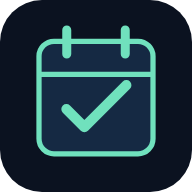
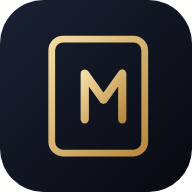
Redesign web app with full BSSE-5D timetable

diff --git a/index.html b/index.html
@@ -1,84 +1,150 @@
 <!DOCTYPE html>
 <html lang="en">
 <head>
-<meta charset="UTF-8"><meta name="viewport" content="width=device-width,initial-scale=1">
-<title>My Weekly Routine</title>
-<meta name="theme-color" content="#0b1220">
-<meta name="description" content="Your personal weekly class, study, workout and shift planner.">
+<meta charset="UTF-8">
+<meta name="viewport" content="width=device-width,initial-scale=1,viewport-fit=cover">
+<title>Major's Diary</title>
+<meta name="description" content="Personal weekly routine — BSSE-5D classes, study, home workouts and shifts.">
+<meta name="theme-color" content="#07090f">
 <link rel="manifest" href="manifest.webmanifest">
 <link rel="icon" href="icon.svg" type="image/svg+xml">
 <link rel="apple-touch-icon" href="icon-192.png">
+<link rel="preconnect" href="https://fonts.googleapis.com"><link rel="preconnect" href="https://fonts.gstatic.com" crossorigin>
+<link href="https://fonts.googleapis.com/css2?family=Fraunces:opsz,wght@9..144,500;9..144,600&family=Inter:wght@400;500;600;700&display=swap" rel="stylesheet">
 <style>
-:root{--bg:#0b1220;--panel:#121d30;--muted:#9eb0c9;--ink:#edf4ff;--accent:#70e1bd;--line:#263650}
-*{box-sizing:border-box}body{margin:0;background:linear-gradient(145deg,#09111e,#15243a);font:15px system-ui;color:var(--ink);min-height:100vh;display:grid;place-items:center;padding:18px}
-.widget{width:min(100%,430px);border:1px solid #2b3c56;border-radius:24px;background:#0f1929;box-shadow:0 20px 70px #0008;overflow:hidden}
-.head{padding:18px 18px 14px;display:flex;align-items:center;justify-content:space-between;gap:12px;cursor:pointer;background:linear-gradient(120deg,#162943,#102034)}
-.brand{font-size:12px;color:var(--muted);letter-spacing:.1em;text-transform:uppercase}.date{font-size:12px;color:var(--muted)}h1{font-size:21px;margin:4px 0 0}.toggle{border:1px solid #39536e;color:var(--ink);background:#20324b;border-radius:12px;padding:9px 12px;font-size:18px}
-.summary{padding:15px 18px;display:grid;grid-template-columns:1fr 1fr 1fr;gap:8px}.metric{background:#152238;border:1px solid #233650;padding:10px;border-radius:14px}.metric b{display:block;font-size:17px}.metric span{font-size:11px;color:var(--muted)}
-.days{display:grid;grid-template-columns:repeat(7,1fr);gap:5px;padding:0 14px 14px}.day{border:1px solid #2b3c54;background:#142136;color:#b9c7d9;border-radius:10px;padding:10px 0;font-weight:700}.day.active{background:var(--accent);border-color:var(--accent);color:#082018}
-.detail{padding:0 18px 18px}.daytitle{display:flex;justify-content:space-between;align-items:center;margin-bottom:12px}.daytitle h2{font-size:18px;margin:0}.pill{font-size:11px;color:#06251c;background:var(--accent);padding:5px 9px;border-radius:99px;font-weight:800}
-.event{display:grid;grid-template-columns:76px 1fr;gap:10px;padding:11px 0;border-bottom:1px solid var(--line)}.time{font-size:12px;color:var(--accent);font-weight:700;padding-top:2px}.event b{font-size:14px}.event small{display:block;color:var(--muted);margin-top:3px;line-height:1.35}
-.collapsed .detail,.collapsed .days,.collapsed .summary{display:none}.collapsed{width:min(100%,310px)}.collapsed .head{padding:14px}.collapsed h1{font-size:17px}.collapsed .brand{font-size:10px}.collapsed .toggle{font-size:15px}
-.footer{padding:0 18px 18px;color:var(--muted);font-size:11px;line-height:1.5}.note{border:1px solid #6d5431;background:#2a2319;color:#f2d6a6;padding:10px 12px;border-radius:12px;margin-top:12px;font-size:12px}
-.event{grid-template-columns:28px 76px 1fr;cursor:pointer}.chk{width:22px;height:22px;border:2px solid #39536e;border-radius:7px;display:grid;place-items:center;font-size:13px;color:#082018;margin-top:1px}.event.done .chk{background:var(--accent);border-color:var(--accent)}.event.done b{text-decoration:line-through;opacity:.6}
-.prog{height:6px;background:#1b2a41;border-radius:9px;overflow:hidden;margin-top:8px;width:160px}.prog i{display:block;height:100%;background:var(--accent);width:0;transition:width .3s}.collapsed .prog{width:120px}
-@media(min-width:600px){body{padding:28px}}
+:root{--bg:#07090f;--s1:rgba(255,255,255,.035);--s2:rgba(255,255,255,.06);--line:rgba(255,255,255,.08);--ink:#f4f1ea;--mut:#8d93a5;--gold:#e2c27d;--gold2:#b8893e;--ok:#7ee0b4}
+*{box-sizing:border-box;-webkit-tap-highlight-color:transparent}
+html,body{margin:0;background:var(--bg);color:var(--ink);font:15px/1.45 Inter,system-ui,sans-serif}
+body{min-height:100vh;background:radial-gradient(900px 500px at 85% -10%,rgba(226,194,125,.13),transparent 60%),radial-gradient(700px 500px at -10% 30%,rgba(90,110,180,.12),transparent 60%),var(--bg)}
+.wrap{max-width:460px;margin:0 auto;padding:calc(22px + env(safe-area-inset-top)) 16px 40px}
+header{display:flex;justify-content:space-between;align-items:center;gap:16px}
+.eyebrow{font-size:11px;letter-spacing:.22em;text-transform:uppercase;color:var(--gold);font-weight:600}
+h1{font-family:Fraunces,Georgia,serif;font-weight:600;font-size:34px;line-height:1.05;margin:6px 0 4px;letter-spacing:-.01em}
+.date{color:var(--mut);font-size:13px}
+.ring{position:relative;width:86px;height:86px;flex:none}
+.ring svg{transform:rotate(-90deg)}.ring .v{position:absolute;inset:0;display:grid;place-items:center;text-align:center}
+.ring b{font-size:20px;display:block;line-height:1}.ring span{font-size:10px;color:var(--mut);letter-spacing:.08em}
+.ring circle{transition:stroke-dashoffset .6s cubic-bezier(.2,.8,.2,1)}
+.days{display:grid;grid-template-columns:repeat(7,1fr);gap:6px;margin:24px 0 18px}
+.day{appearance:none;border:1px solid var(--line);background:var(--s1);color:var(--mut);border-radius:14px;padding:10px 0 8px;font:600 12px Inter,sans-serif;cursor:pointer;position:relative;transition:.2s}
+.day small{display:block;font-size:15px;color:var(--ink);font-weight:600;margin-top:2px}
+.day.active{background:linear-gradient(160deg,var(--gold),var(--gold2));border-color:transparent;color:#2a1d05}.day.active small{color:#1a1204}
+.day.today:not(.active)::after{content:"";position:absolute;bottom:5px;left:50%;width:4px;height:4px;margin-left:-2px;border-radius:9px;background:var(--gold)}
+.stats{display:grid;grid-template-columns:repeat(4,1fr);gap:8px;margin-bottom:18px}
+.stat{background:var(--s1);border:1px solid var(--line);border-radius:16px;padding:12px 10px}
+.stat b{display:block;font-size:14px;font-weight:600;white-space:nowrap;overflow:hidden;text-overflow:ellipsis}.stat span{font-size:10.5px;color:var(--mut);letter-spacing:.04em}
+.sec{display:flex;justify-content:space-between;align-items:baseline;margin:6px 2px 10px}
+.sec h2{font-family:Fraunces,Georgia,serif;font-weight:500;font-size:20px;margin:0}
+.tag{font-size:10.5px;letter-spacing:.12em;text-transform:uppercase;font-weight:600;padding:5px 10px;border-radius:99px;border:1px solid rgba(226,194,125,.35);color:var(--gold)}
+.tag.off{border-color:rgba(126,224,180,.35);color:var(--ok)}
+.list{display:flex;flex-direction:column;gap:8px}
+.item{display:grid;grid-template-columns:30px 1fr;gap:12px;align-items:center;padding:14px;border-radius:18px;background:var(--s1);border:1px solid var(--line);cursor:pointer;transition:background .2s,transform .1s;user-select:none}
+.item:active{transform:scale(.985)}.item:hover{background:var(--s2)}
+.chk{width:26px;height:26px;border-radius:50%;border:1.5px solid #4a5168;display:grid;place-items:center;transition:.2s}
+.chk svg{opacity:0;transform:scale(.5);transition:.2s}
+.item.done .chk{background:linear-gradient(160deg,var(--gold),var(--gold2));border-color:transparent}.item.done .chk svg{opacity:1;transform:none}
+.t{font-size:11.5px;color:var(--gold);font-weight:600;letter-spacing:.03em}
+.n{font-weight:600;font-size:14.5px;margin-top:1px}.d{font-size:12.5px;color:var(--mut);margin-top:2px}
+.item.done .n{color:var(--mut);text-decoration:line-through;text-decoration-color:rgba(226,194,125,.6)}
+.note{margin-top:16px;padding:14px 16px;border-radius:18px;background:linear-gradient(160deg,rgba(226,194,125,.10),rgba(226,194,125,.03));border:1px solid rgba(226,194,125,.2);font-size:13px;color:#e9dcc0}
+.note b{display:block;font-size:10.5px;letter-spacing:.18em;text-transform:uppercase;color:var(--gold);margin-bottom:4px}
+
+.k-study .t{color:#9fbcff}.k-workout .t{color:#7ee0b4}.k-shift .t{color:#f2a3a3}.k-sleep .t{color:#b4a7f0}.k-life .t{color:var(--mut)}
+.k-life{background:transparent;border-style:dashed}.k-workout .d{color:#b9c6c0}
+.item.now{border-color:rgba(226,194,125,.55);box-shadow:0 0 0 3px rgba(226,194,125,.08),0 10px 30px rgba(0,0,0,.35)}
+.t em{font-style:normal;margin-left:8px;padding:2px 7px;border-radius:99px;background:var(--gold);color:#1a1204;font-size:9.5px;letter-spacing:.12em;text-transform:uppercase}
+.legend{display:flex;flex-wrap:wrap;gap:12px;justify-content:center;margin-top:18px;font-size:11px;color:var(--mut)}.legend i{display:inline-block;width:7px;height:7px;border-radius:9px;margin-right:5px;vertical-align:1px}
+footer{text-align:center;color:#5d6377;font-size:11.5px;margin-top:26px}
 </style>
 </head>
 <body>
-<main class="widget" id="widget">
- <header class="head" id="expand" role="button" tabindex="0" aria-label="Expand or collapse weekly routine">
-  <div><div class="brand">My weekly routine</div><h1 id="headline">Today's plan</h1><div class="date" id="date"></div><div class="prog"><i id="bar"></i></div><div class="date" id="progtxt"></div></div>
-  <button class="toggle" id="toggle" aria-label="Expand widget">↗</button>
- </header>
- <section class="summary">
-  <div class="metric"><b id="classes">—</b><span>Class blocks</span></div>
-  <div class="metric"><b id="workout">—</b><span>Workout</span></div>
-  <div class="metric"><b id="study">—</b><span>Study target</span></div>
- </section>
- <nav class="days" id="days" aria-label="Choose day"></nav>
- <section class="detail"><div class="daytitle"><h2 id="dayTitle"></h2><span class="pill" id="shiftPill"></span></div><div id="events"></div>
- <div class="note" id="note"></div></section>
- <div class="footer">Tap any item to tick it ✓ — progress saves on this phone and resets each day. Select a day to see its plan. The compact header opens/closes this widget. Day defaults to your device's current weekday.</div>
+<main class="wrap">
+  <header>
+    <div>
+      <div class="eyebrow">Major's Diary</div>
+      <h1 id="title">Today</h1>
+      <div class="date" id="date"></div>
+    </div>
+    <div class="ring" aria-label="Progress">
+      <svg width="86" height="86" viewBox="0 0 86 86"><defs><linearGradient id="gg" x1="0" y1="0" x2="1" y2="1"><stop offset="0" stop-color="#f3dca2"/><stop offset="1" stop-color="#b8893e"/></linearGradient></defs>
+        <circle cx="43" cy="43" r="37" fill="none" stroke="rgba(255,255,255,.07)" stroke-width="7"/>
+        <circle id="arc" cx="43" cy="43" r="37" fill="none" stroke="url(#gg)" stroke-width="7" stroke-linecap="round" stroke-dasharray="232.5" stroke-dashoffset="232.5"/></svg>
+      <div class="v"><div><b id="pct">0%</b><span id="cnt">0/0</span></div></div>
+    </div>
+  </header>
+
+  <nav class="days" id="days" aria-label="Choose day"></nav>
+
+  <section class="stats">
+    <div class="stat"><b id="sClasses">–</b><span>Classes</span></div>
+    <div class="stat"><b id="sStudy">–</b><span>Study</span></div>
+    <div class="stat"><b id="sWork">–</b><span>Workout</span></div>
+    <div class="stat"><b id="sShift">–</b><span>Shift</span></div>
+  </section>
+
+  <div class="sec"><h2 id="dayName"></h2><span class="tag" id="tag"></span></div>
+  <div class="list" id="list"></div>
+  
+  <div class="legend"><span><i style="background:#e2c27d"></i>Class</span><span><i style="background:#9fbcff"></i>Study</span><span><i style="background:#7ee0b4"></i>Workout</span><span><i style="background:#f2a3a3"></i>Shift</span><span><i style="background:#b4a7f0"></i>Sleep</span></div>
+  <footer>Tap an item to mark it done · progress is saved on this device</footer>
 </main>
+
 <script>
-const week=[
-{name:"Monday",classes:[["8:30–9:30","Web Engineering","A83-131 · Muniba Bibi"],["9:30–10:30","Data Structure & Algorithm","A83-010 · Fawad Ali Shah"],["11:30–1:30","Operating System Lab","LAB A83-133 · 2 hours"],["1:30–2:30","Computer Organization & Assembly","A82 Hall-217A"],["2:30–3:30","Design & Analysis of Algorithm","A83-223"]],workout:"40 min",study:"1 hour",notes:"Use the 10:30–11:30 gap for DSA recap. Travel + meal buffer before shift."},
-{name:"Tuesday",classes:[["8:30–12:00","Data Structure & Algorithm Lab","LAB A83-016 · Fawad Ali Shah"],["1:30–2:30","Computer Organization & Assembly","A83-130"],["2:30–3:30","Agile Software Development Methods","A83-223"]],workout:"Rest",study:"Light / recovery",notes:"Protect recovery after Monday's night shift. Avoid workout if sleep-deprived; take a pre-shift nap if feasible."},
-{name:"Wednesday",classes:[["9:30–10:30","Operating System","A82 Hall-217A"],["10:30–11:30","Data Structure & Algorithm","A83-010"],["1:30–2:30","Design & Analysis of Algorithm","A83-131"],["2:30–4:30","Computer Organization & Assembly Lab","Hitech Lab-01 · 2 hours"]],workout:"Rest",study:"1 hour (if rested)",notes:"Prioritize a recovery nap/sleep window and keep study focused, not lengthy."},
-{name:"Thursday",classes:[["11:30–12:30","Operating System","A83-130"],["12:30–2:30","Web Engineering Lab","LAB A83-005 · 2 hours"],["2:30–3:30","Agile Software Development Methods","A83-132"],["3:30–4:30","Design & Analysis of Algorithm","A83-132"]],workout:"40 min",study:"1 hour",notes:"Workout only if sleep and energy are adequate. Prepare shift bag/meal before commute."},
-{name:"Friday",classes:[["11:30–12:30","Web Engineering","A83-223"],["12:30–1:30","Data Structure & Algorithm","A83-007"],["2:30–4:30","Agile Software Development Methods Lab","LAB A83-004 · 2 hours"]],workout:"Optional walk",study:"1 hour",notes:"Use morning for recovery and one focused review block; keep commute buffer."},
-{name:"Saturday",classes:[],workout:"60 min",study:"3 hours",notes:"Deep-work day: 3 × 50-minute study blocks with breaks. Workout and errands; shift 5:45 PM–2 AM."},
-{name:"Sunday",classes:[],workout:"60 min",study:"3 hours",notes:"Weekly review, assignments + DSA practice. Plan meals, clothes and the coming week. No shift assumed."}
-];
-const dayNames=["Mon","Tue","Wed","Thu","Fri","Sat","Sun"];
-let selected=(new Date().getDay()+6)%7;
-const nav=document.getElementById("days");
-week.forEach((d,i)=>{const b=document.createElement("button");b.className="day";b.textContent=dayNames[i];b.onclick=()=>render(i);b.id="day"+i;nav.appendChild(b)});
-function render(i){selected=i;const d=week[i];document.querySelectorAll(".day").forEach((b,j)=>b.classList.toggle("active",i===j));
-document.getElementById("headline").textContent=d.name+" plan";document.getElementById("date").textContent=new Intl.DateTimeFormat(undefined,{weekday:"long",month:"short",day:"numeric"}).format(new Date());
-document.getElementById("dayTitle").textContent=d.name;document.getElementById("classes").textContent=d.classes.length;document.getElementById("workout").textContent=d.workout;document.getElementById("study").textContent=d.study;
-document.getElementById("shiftPill").textContent=i===6?"NO SHIFT PLANNED":"SHIFT · 5:45 PM–2 AM";
-let items=d.classes.map(e=>`<div class="event"><div class="chk"></div><div class="time">${e[0]}</div><div><b>${e[1]}</b><small>${e[2]}</small></div></div>`);
-items.push(`<div class="event"><div class="chk"></div><div class="time">Daily</div><div><b>Work shift</b><small>${i===6?"Off (confirm if different)":"5:45 PM – 2:00 AM · Mon–Sat"}</small></div></div>`);
-items.push(`<div class="event"><div class="chk"></div><div class="time">Target</div><div><b>Study · ${d.study}</b><small>Short focused blocks beat an unrealistic marathon.</small></div></div>`);
-items.push(`<div class="event"><div class="chk"></div><div class="time">Health</div><div><b>Workout · ${d.workout}</b><small>Sleep and safe recovery come first.</small></div></div>`);
-document.getElementById("events").innerHTML=items.join("");document.getElementById("note").textContent=d.notes;bindChecks()}
-function key(){const t=new Date();const off=(selected-((t.getDay()+6)%7));t.setDate(t.getDate()+off);return "done-"+t.toISOString().slice(0,10)}
-function load(k){try{return JSON.parse(localStorage.getItem(k)||"[]")}catch(e){return[]}}
-function save(k,v){try{localStorage.setItem(k,JSON.stringify(v))}catch(e){}}
-function bindChecks(){const k=key(),done=load(k);document.querySelectorAll("#events .event").forEach((el,n)=>{el.classList.toggle("done",done.includes(n));el.querySelector(".chk").textContent=done.includes(n)?"✓":"";el.onclick=()=>{const d=load(k);const j=d.indexOf(n);j<0?d.push(n):d.splice(j,1);save(k,d);bindChecks()}});progress()}
-function progress(){const t=(new Date().getDay()+6)%7,tk="done-"+new Date().toISOString().slice(0,10);const total=week[t].classes.length+3,n=load(tk).length;document.getElementById("bar").style.width=Math.round(n/total*100)+"%";document.getElementById("progtxt").textContent=`Today: ${n}/${total} done`}
-const widget=document.getElementById("widget");function toggle(){widget.classList.toggle("collapsed");document.getElementById("toggle").textContent=widget.classList.contains("collapsed")?"↗":"↙"}
-document.getElementById("expand").addEventListener("click",e=>{if(e.target.closest("button"))return;toggle()});document.getElementById("expand").addEventListener("keydown",e=>{if(e.key==="Enter"||e.key===" "){e.preventDefault();toggle()}});
-document.getElementById("toggle").onclick=toggle;
-render(selected);
-// Start compact like a mini-widget.
-widget.classList.add("collapsed");document.getElementById("toggle").textContent="↗";
-</script>
-<script>
-if ('serviceWorker' in navigator) {
-  window.addEventListener('load', () => navigator.serviceWorker.register('./sw.js').catch(()=>{}));
+const week = [{"name":"Monday","shift":false,"study":"1 hour","workout":"40 min","classes":5,"items":[{"t":"8:00 AM – 8:20 AM","s":480,"n":"Wake up & get ready","d":"Uni is next door — no rush","k":"life"},{"t":"8:30 AM – 9:30 AM","s":510,"n":"Web Engineering","d":"Muniba Bibi · A83-131","k":"class"},{"t":"9:30 AM – 10:30 AM","s":570,"n":"Data Structure & Algorithm","d":"Fawad Ali Shah · A83-010","k":"class"},{"t":"10:30 AM – 11:30 AM","s":630,"n":"Breakfast + DSA recap","d":"Free slot — eat, then 30 min recap","k":"life"},{"t":"11:30 AM – 1:30 PM","s":690,"n":"Operating System Lab","d":"Malik Ihtashim Asif · LAB A83-133","k":"class"},{"t":"1:30 PM – 2:30 PM","s":810,"n":"Computer Org. & Assembly","d":"Mehwish Malik · A82 Hall-217A","k":"class"},{"t":"2:30 PM – 3:30 PM","s":870,"n":"Design & Analysis of Algorithm","d":"Shahid Akbar · A83-223","k":"class"},{"t":"3:30 PM – 4:30 PM","s":930,"n":"Lunch + rest","d":"Recharge after a long class day","k":"life"},{"t":"5:00 PM – 6:00 PM","s":1020,"n":"Study · 1 hour","d":"Review today's lectures","k":"study"},{"t":"6:30 PM – 7:10 PM","s":1110,"n":"Workout · Upper body (home)","d":"Push-ups 4×12 · Pike push-ups 3×10 · Chair dips 3×12 · Plank 3×45s","k":"workout"},{"t":"8:00 PM – 8:30 PM","s":1200,"n":"Dinner","d":"","k":"life"},{"t":"9:00 PM – 10:00 PM","s":1260,"n":"Free time + prep for Tuesday","d":"Bag, notes, lab manual","k":"life"},{"t":"11:00 PM","s":1380,"n":"Sleep","d":"No shift tonight — full night's rest","k":"sleep"}]},{"name":"Tuesday","shift":true,"study":"1 hour","workout":"15 min","classes":3,"items":[{"t":"7:50 AM – 8:20 AM","s":470,"n":"Wake up & get ready","d":"","k":"life"},{"t":"8:30 AM – 11:30 AM","s":510,"n":"Data Structure & Algorithm Lab","d":"Fawad Ali Shah · LAB A83-016","k":"class"},{"t":"11:30 AM – 12:15 PM","s":690,"n":"Brunch","d":"","k":"life"},{"t":"12:15 PM – 1:15 PM","s":735,"n":"Study · 1 hour","d":"DSA lab follow-up","k":"study"},{"t":"1:30 PM – 2:30 PM","s":810,"n":"Computer Org. & Assembly","d":"Mehwish Malik · A83-130","k":"class"},{"t":"2:30 PM – 3:30 PM","s":870,"n":"Agile Software Development","d":"Sonia Rafaqat · A83-223","k":"class"},{"t":"3:45 PM – 5:00 PM","s":945,"n":"Nap","d":"Sleep bank before the night shift","k":"sleep"},{"t":"5:00 PM – 5:15 PM","s":1020,"n":"Mobility · 15 min","d":"Neck, shoulder & hip mobility · hamstring + back stretch","k":"workout"},{"t":"5:15 PM – 5:40 PM","s":1035,"n":"Meal","d":"Eat before the shift starts","k":"life"},{"t":"5:45 PM – 2:00 AM","s":1065,"n":"Work shift (from home)","d":"Work from home","k":"shift"},{"t":"2:15 AM","s":1575,"n":"Sleep","d":"","k":"sleep"}]},{"name":"Wednesday","shift":true,"study":"1 hour","workout":"Rest","classes":4,"items":[{"t":"9:00 AM – 9:25 AM","s":540,"n":"Wake up & breakfast","d":"","k":"life"},{"t":"9:30 AM – 10:30 AM","s":570,"n":"Operating System","d":"Malik Ihtashim Asif · A82 Hall-217A","k":"class"},{"t":"10:30 AM – 11:30 AM","s":630,"n":"Data Structure & Algorithm","d":"Fawad Ali Shah · A83-010","k":"class"},{"t":"11:30 AM – 12:15 PM","s":690,"n":"Lunch","d":"","k":"life"},{"t":"12:15 PM – 1:15 PM","s":735,"n":"Study · 1 hour","d":"Short and focused — recovery day","k":"study"},{"t":"1:30 PM – 2:30 PM","s":810,"n":"Design & Analysis of Algorithm","d":"Shahid Akbar · A83-131","k":"class"},{"t":"2:30 PM – 4:30 PM","s":870,"n":"Computer Org. & Assembly Lab","d":"Mehwish Malik · Hitech Lab-01","k":"class"},{"t":"4:35 PM – 5:20 PM","s":995,"n":"Power nap","d":"Rest day — no workout","k":"sleep"},{"t":"5:20 PM – 5:40 PM","s":1040,"n":"Meal","d":"","k":"life"},{"t":"5:45 PM – 2:00 AM","s":1065,"n":"Work shift (from home)","d":"Work from home","k":"shift"},{"t":"2:15 AM","s":1575,"n":"Sleep","d":"","k":"sleep"}]},{"name":"Thursday","shift":true,"study":"30 min","workout":"40 min","classes":4,"items":[{"t":"9:30 AM – 9:50 AM","s":570,"n":"Wake up & breakfast","d":"","k":"life"},{"t":"9:50 AM – 10:20 AM","s":590,"n":"Study · 30 min","d":"Quick review before class","k":"study"},{"t":"10:30 AM – 11:30 AM","s":630,"n":"Operating System","d":"Malik Ihtashim Asif · A83-130","k":"class"},{"t":"11:30 AM – 1:30 PM","s":690,"n":"Web Engineering Lab","d":"Muniba Bibi · LAB A83-005","k":"class"},{"t":"1:30 PM – 2:30 PM","s":810,"n":"Agile Software Development","d":"Sonia Rafaqat · A83-132","k":"class"},{"t":"2:30 PM – 3:30 PM","s":870,"n":"Design & Analysis of Algorithm","d":"Shahid Akbar · A83-132","k":"class"},{"t":"3:30 PM – 4:00 PM","s":930,"n":"Lunch","d":"","k":"life"},{"t":"4:15 PM – 4:55 PM","s":975,"n":"Workout · Lower body (home)","d":"Squats 4×20 · Lunges 3×12/leg · Glute bridges 3×15 · Wall sit 3×45s","k":"workout"},{"t":"5:00 PM – 5:40 PM","s":1020,"n":"Shower + meal","d":"","k":"life"},{"t":"5:45 PM – 2:00 AM","s":1065,"n":"Work shift (from home)","d":"Work from home","k":"shift"},{"t":"2:15 AM","s":1575,"n":"Sleep","d":"","k":"sleep"}]},{"name":"Friday","shift":true,"study":"1 hour","workout":"20 min","classes":3,"items":[{"t":"9:45 AM – 10:20 AM","s":585,"n":"Wake up & breakfast","d":"","k":"life"},{"t":"10:30 AM – 11:30 AM","s":630,"n":"Web Engineering","d":"Muniba Bibi · A83-223","k":"class"},{"t":"11:30 AM – 12:30 PM","s":690,"n":"Data Structure & Algorithm","d":"Fawad Ali Shah · A83-007","k":"class"},{"t":"12:30 PM – 1:30 PM","s":750,"n":"Lunch + break","d":"","k":"life"},{"t":"1:30 PM – 3:30 PM","s":810,"n":"Agile Software Development Lab","d":"Sonia Rafaqat · LAB A83-004","k":"class"},{"t":"3:30 PM – 4:30 PM","s":930,"n":"Study · 1 hour","d":"Week's notes + pending assignments","k":"study"},{"t":"4:35 PM – 4:55 PM","s":995,"n":"Workout · Core (home)","d":"Crunches 3×20 · Leg raises 3×12 · Mountain climbers 3×30s · Side plank 2×30s","k":"workout"},{"t":"5:00 PM – 5:40 PM","s":1020,"n":"Rest + meal","d":"","k":"life"},{"t":"5:45 PM – 2:00 AM","s":1065,"n":"Work shift (from home)","d":"Work from home","k":"shift"},{"t":"2:15 AM","s":1575,"n":"Sleep","d":"","k":"sleep"}]},{"name":"Saturday","shift":true,"study":"3 hours","workout":"45 min","classes":0,"items":[{"t":"10:00 AM – 10:30 AM","s":600,"n":"Wake up & breakfast","d":"","k":"life"},{"t":"11:00 AM – 1:50 PM","s":660,"n":"Deep study · 3 hours","d":"3 × 50 min blocks with 10 min breaks","k":"study"},{"t":"2:00 PM – 3:00 PM","s":840,"n":"Lunch","d":"","k":"life"},{"t":"3:00 PM – 4:00 PM","s":900,"n":"Errands / free time","d":"","k":"life"},{"t":"4:00 PM – 4:45 PM","s":960,"n":"Workout · Full body (home)","d":"4 rounds: 10 burpees · 15 push-ups · 20 squats · 30 jumping jacks · 40s plank","k":"workout"},{"t":"5:00 PM – 5:40 PM","s":1020,"n":"Shower + meal","d":"","k":"life"},{"t":"5:45 PM – 2:00 AM","s":1065,"n":"Work shift (from home)","d":"Work from home","k":"shift"},{"t":"2:15 AM","s":1575,"n":"Sleep","d":"","k":"sleep"}]},{"name":"Sunday","shift":false,"study":"3 hours","workout":"30 min","classes":0,"items":[{"t":"10:00 AM – 10:30 AM","s":600,"n":"Wake up & breakfast","d":"","k":"life"},{"t":"11:00 AM – 2:00 PM","s":660,"n":"Study · 3 hours","d":"Assignments + DSA practice","k":"study"},{"t":"2:00 PM – 3:00 PM","s":840,"n":"Lunch","d":"","k":"life"},{"t":"3:00 PM – 4:00 PM","s":900,"n":"Free time","d":"","k":"life"},{"t":"4:00 PM – 4:30 PM","s":960,"n":"Workout · HIIT (home)","d":"5 min warm-up · 20 min HIIT (40s on / 20s off) · 5 min stretch","k":"workout"},{"t":"5:00 PM – 6:00 PM","s":1020,"n":"Weekly review","d":"Plan the week, check deadlines","k":"study"},{"t":"8:00 PM – 8:30 PM","s":1200,"n":"Dinner","d":"","k":"life"},{"t":"10:30 PM","s":1350,"n":"Sleep","d":"Early night — 8:30 AM class tomorrow","k":"sleep"}]}];
+const short = ["Mon","Tue","Wed","Thu","Fri","Sat","Sun"];
+const todayIdx = (new Date().getDay() + 6) % 7;
+let sel = todayIdx;
+const $ = id => document.getElementById(id);
+const check = '<svg width="14" height="14" viewBox="0 0 24 24"><path d="M5 12.5l4.5 4.5L19 7.5" fill="none" stroke="#1a1204" stroke-width="3" stroke-linecap="round" stroke-linejoin="round"/></svg>';
+
+function dateOf(i){ const d = new Date(); d.setDate(d.getDate() + (i - todayIdx)); return d; }
+function key(i){ const d = dateOf(i); return "md-" + d.getFullYear() + "-" + (d.getMonth()+1) + "-" + d.getDate(); }
+function load(k){ try { return JSON.parse(localStorage.getItem(k) || "[]"); } catch(e){ return []; } }
+function save(k,v){ try { localStorage.setItem(k, JSON.stringify(v)); } catch(e){} }
+
+function items(d){ return d.items; }
+function nowMin(){ const n=new Date(); let m=n.getHours()*60+n.getMinutes(); return m<360?m+1440:m; }
+
+short.forEach((s, i) => {
+  const b = document.createElement("button");
+  b.className = "day" + (i === todayIdx ? " today" : "");
+  b.innerHTML = s + "<small>" + dateOf(i).getDate() + "</small>";
+  b.onclick = () => { sel = i; render(); };
+  $("days").appendChild(b);
+});
+
+function render(){
+  const d = week[sel], list = items(d), k = key(sel), done = load(k);
+  let cur = -1; if (sel === todayIdx) { const m = nowMin(); list.forEach((it, i) => { if (it.s <= m) cur = i; }); }
+  document.querySelectorAll(".day").forEach((b, j) => b.classList.toggle("active", j === sel));
+  $("title").textContent = sel === todayIdx ? "Today" : d.name;
+  $("date").textContent = new Intl.DateTimeFormat(undefined, { weekday: "long", day: "numeric", month: "long" }).format(dateOf(sel));
+  $("dayName").textContent = d.name;
+  $("tag").textContent = d.shift ? "Shift day" : "No shift";
+  $("tag").className = "tag" + (d.shift ? "" : " off");
+  $("sClasses").textContent = d.classes;
+  $("sStudy").textContent = d.study;
+  $("sWork").textContent = d.workout;
+  $("sShift").textContent = d.shift ? "5:45 PM" : "Off";
+  $("tag").textContent = d.shift ? "Shift · from home" : "No shift";
+    $("list").innerHTML = list.map((it, i) =>
+    `<div class="item k-${it.k}${done.includes(i) ? " done" : ""}${i===cur ? " now" : ""}" data-i="${i}" role="checkbox" aria-checked="${done.includes(i)}" tabindex="0">
+      <div class="chk">${check}</div>
+      <div><div class="t">${it.t}${i===cur ? '<em>Now</em>' : ''}</div><div class="n">${it.n}</div>${it.d ? `<div class="d">${it.d}</div>` : ''}</div>
+    </div>`).join("");
+  document.querySelectorAll(".item").forEach(el => {
+    const toggle = () => { const i = +el.dataset.i, cur = load(k), j = cur.indexOf(i); j < 0 ? cur.push(i) : cur.splice(j, 1); save(k, cur); render(); };
+    el.onclick = toggle;
+    el.onkeydown = e => { if (e.key === "Enter" || e.key === " ") { e.preventDefault(); toggle(); } };
+  });
+  const n = done.length, pct = Math.round(n / list.length * 100);
+  $("pct").textContent = pct + "%";
+  $("cnt").textContent = n + "/" + list.length + " DONE";
+  $("arc").style.strokeDashoffset = 232.5 * (1 - n / list.length);
 }
+render();
+
+if ("serviceWorker" in navigator) addEventListener("load", () => navigator.serviceWorker.register("./sw.js").catch(() => {}));
 </script>
-</body></html>
+</body>
+</html>

diff --git a/sw.js b/sw.js
@@ -1,5 +1,5 @@
-const CACHE='my-routine-v2';
-const FILES=['./','./index.html','./manifest.webmanifest','./icon.svg','./icon-192.png','./icon-512.png'];
-self.addEventListener('install',e=>{self.skipWaiting();e.waitUntil(caches.open(CACHE).then(c=>c.addAll(FILES)))});
-self.addEventListener('activate',e=>e.waitUntil(caches.keys().then(k=>Promise.all(k.filter(x=>x!==CACHE).map(x=>caches.delete(x))))));
-self.addEventListener('fetch',e=>e.respondWith(fetch(e.request).then(r=>{const c=r.clone();caches.open(CACHE).then(x=>x.put(e.request,c));return r}).catch(()=>caches.match(e.request))));
+const CACHE = 'majors-diary-v4';
+const FILES = ['./', './index.html', './manifest.webmanifest', './icon.svg', './icon-192.png', './icon-512.png'];
+self.addEventListener('install', e => { self.skipWaiting(); e.waitUntil(caches.open(CACHE).then(c => c.addAll(FILES))); });
+self.addEventListener('activate', e => e.waitUntil(caches.keys().then(k => Promise.all(k.filter(x => x !== CACHE).map(x => caches.delete(x)))).then(() => self.clients.claim())));
+self.addEventListener('fetch', e => e.respondWith(fetch(e.request).then(r => { const c = r.clone(); caches.open(CACHE).then(x => x.put(e.request, c)); return r; }).catch(() => caches.match(e.request))));

diff --git a/README.md b/README.md
@@ -1,2 +1,36 @@
-# Major-s-diary
-Its my personal routine 
+# Major's Diary
+
+A personal daily planner built around the BSSE-5D class timetable — classes, study blocks, home workouts (no gym), naps and work-from-home shifts — with daily check-offs.
+
+**Web app:** https://zahid-56.github.io/Major-s-diary/
+**Android widget:** download the latest `MajorsDiary.apk` from [Releases](https://github.com/Zahid-56/Major-s-diary/releases/latest)
+
+## Features
+
+- Full day plan from wake-up to sleep, with a day picker for the week
+- Home bodyweight workouts — no gym needed
+- Highlights what you should be doing right now
+- Tap any item to check it off; progress resets every day
+- Installable web app (PWA) that works offline
+- Native Android home-screen widget with live progress
+
+## Android widget
+
+1. Download and install `MajorsDiary.apk` from the latest release.
+2. Long-press your home screen → **Widgets** → **Major's Diary**.
+3. Tap a row to check it off. Tap the header to open the full planner.
+
+## Project structure
+
+```
+index.html, sw.js, manifest.webmanifest, icon*   Web app (GitHub Pages)
+android/                                          Android app + widget (Java)
+.github/workflows/android.yml                     Builds the APK and publishes a release
+```
+
+## Updating the schedule
+
+- Web: edit the `week` data in `index.html`.
+- Android widget: edit `android/app/src/main/java/com/zahid/majorsdiary/Schedule.java`.
+
+Pushing changes to `android/` automatically builds a new APK release.
